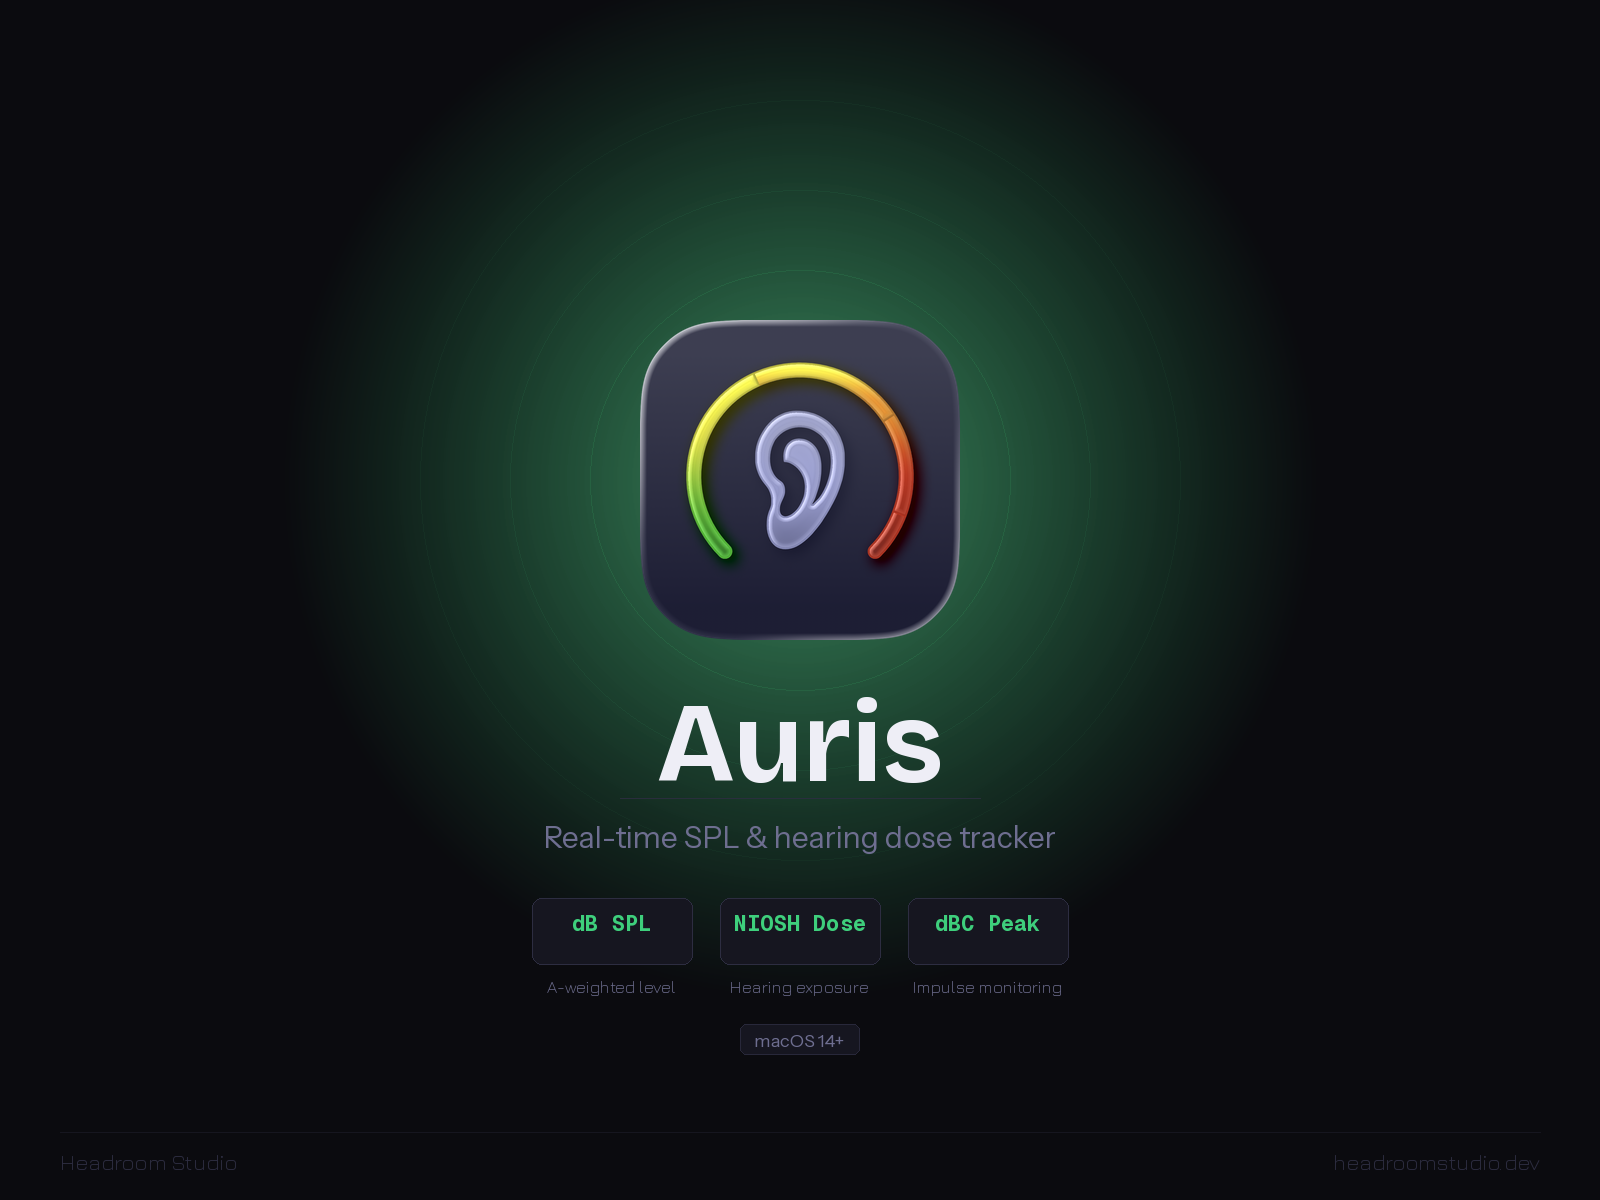
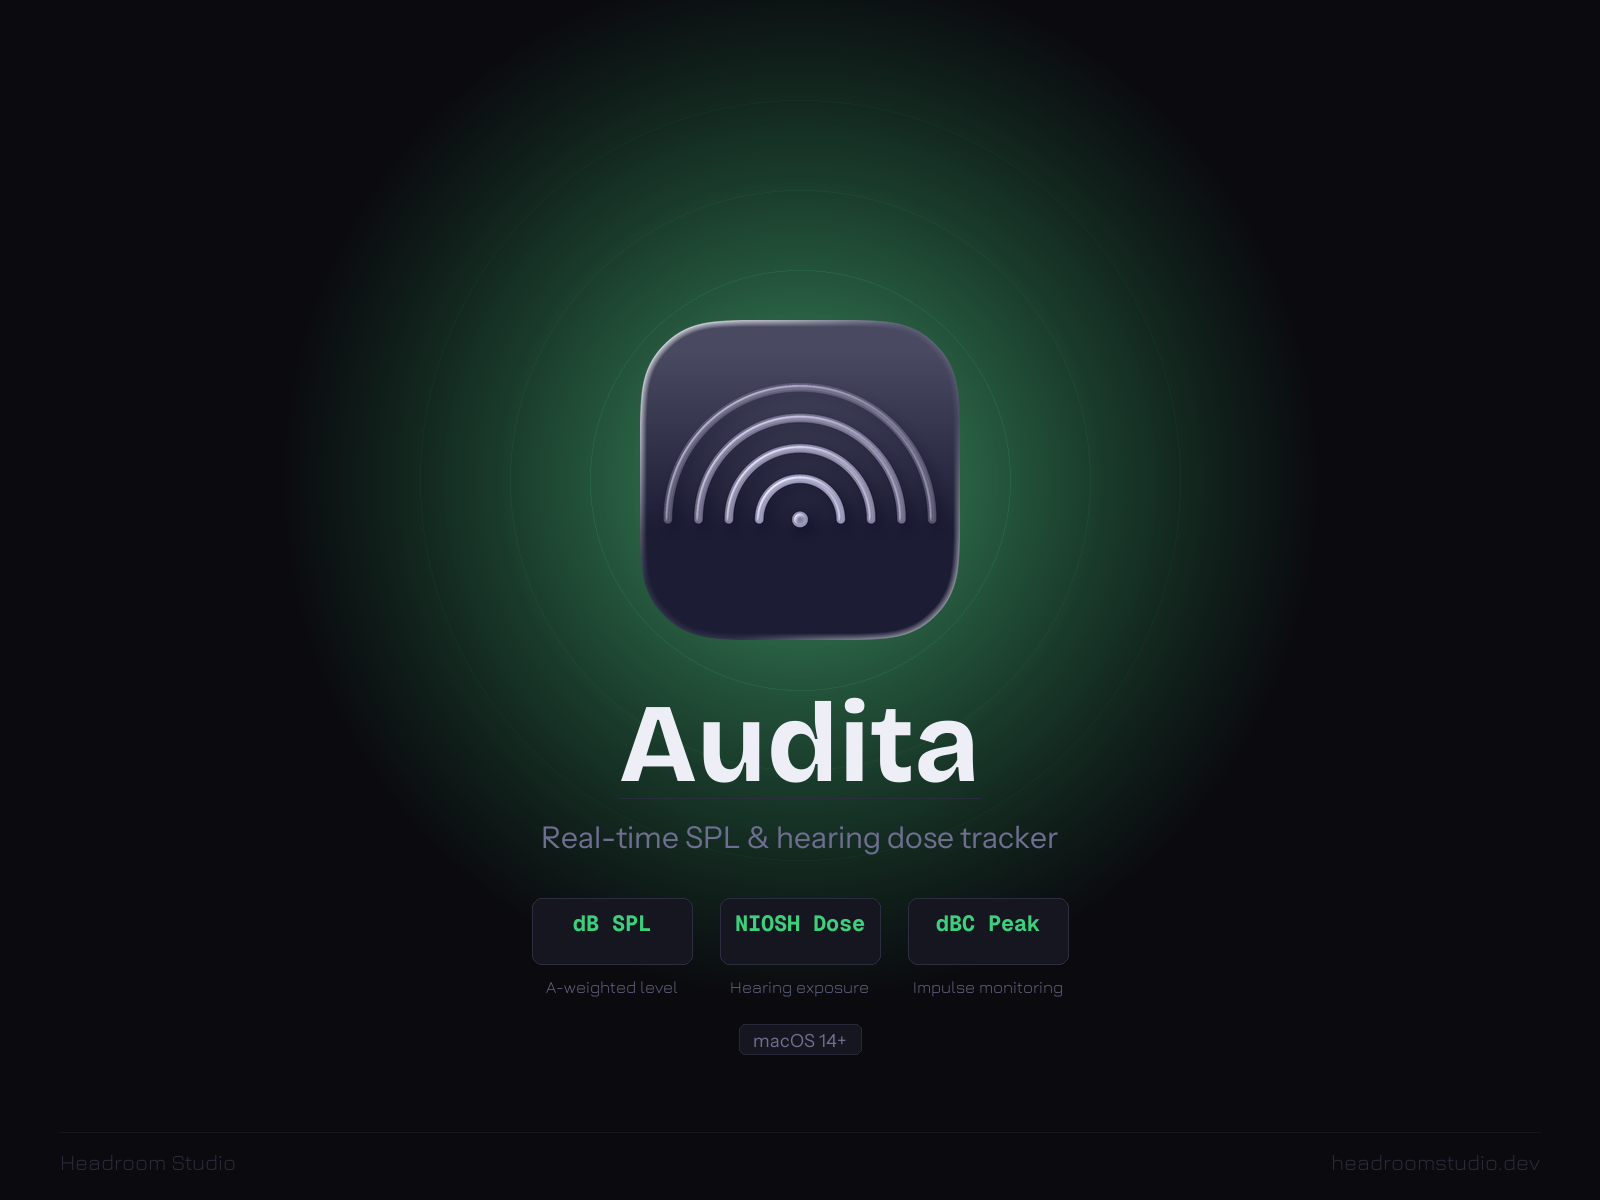
Regenerate audita/og.png and audita/ls-thumbnail.png with Audita branding
Both images shipped in the previous commit as byte-identical copies of
their auris/ counterparts (still showing "Auris" in the rendered text)
because the generation scripts couldn't resolve the canvas-fonts
directory on this machine. Now regenerated from canvas-fonts on disk,
so social-media previews and the Lemon Squeezy store thumbnail render
the new app name correctly.

While here, switch both scripts from a hardcoded fonts path to a
required CANVAS_FONTS_DIR env var. The previous defaults were either
a stale relative path (generate_og_images.py: ../.skills/...) or a
sandboxed Claude session path (make_ls_audita.py: /sessions/...).
Neither resolved on a clean checkout. Failing fast with a clear message
beats failing deep inside Pillow with "cannot open resource".

Usage:
  CANVAS_FONTS_DIR=/path/to/canvas-fonts python3 generate_og_images.py
  CANVAS_FONTS_DIR=/path/to/canvas-fonts python3 make_ls_audita.py

diff --git a/generate_og_images.py b/generate_og_images.py
@@ -22,7 +22,14 @@ import os
 
 # ── Paths ────────────────────────────────────────────────────────────────────
 HERE      = os.path.dirname(os.path.abspath(__file__))
-FONTS_DIR = os.path.join(HERE, "..", ".skills", "skills", "canvas-design", "canvas-fonts")
+FONTS_DIR = os.environ.get("CANVAS_FONTS_DIR")
+if not FONTS_DIR:
+    raise SystemExit(
+        "CANVAS_FONTS_DIR not set. Point it at a directory containing the "
+        "Bricolage / Instrument / Jura / Geist TTF files used by this script.\n"
+        "Example:\n"
+        "  CANVAS_FONTS_DIR=/path/to/canvas-fonts python3 generate_og_images.py"
+    )
 
 # ── Canvas size ───────────────────────────────────────────────────────────────
 W, H = 1200, 630

diff --git a/make_ls_audita.py b/make_ls_audita.py
@@ -11,7 +11,14 @@ from PIL import Image, ImageDraw, ImageFont
 import math, os
 
 HERE  = os.path.dirname(os.path.abspath(__file__))
-FONTS = "/sessions/intelligent-hopeful-brown/mnt/.claude/skills/canvas-design/canvas-fonts"
+FONTS = os.environ.get("CANVAS_FONTS_DIR")
+if not FONTS:
+    raise SystemExit(
+        "CANVAS_FONTS_DIR not set. Point it at a directory containing the "
+        "Bricolage / Instrument / Jura / Geist TTF files used by this script.\n"
+        "Example:\n"
+        "  CANVAS_FONTS_DIR=/path/to/canvas-fonts python3 make_ls_audita.py"
+    )
 
 W, H = 1600, 1200
 
